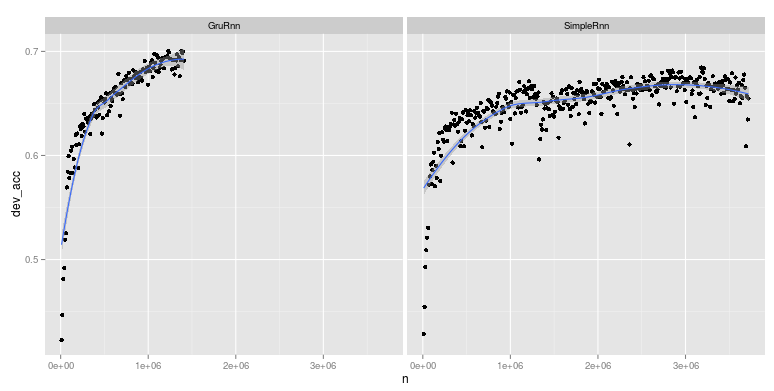
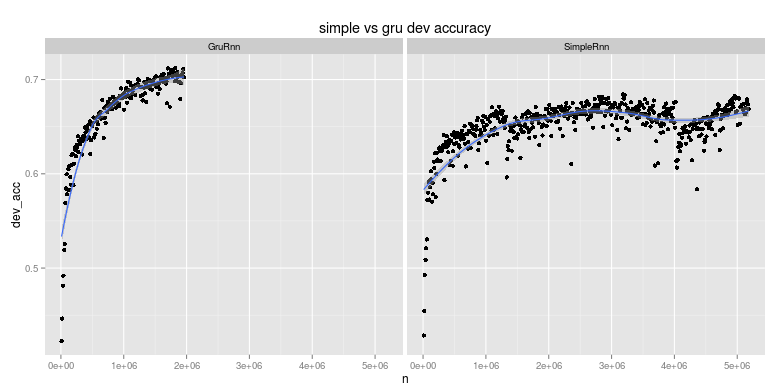
readme and arg help updates

diff --git a/nn_baseline.py b/nn_baseline.py
@@ -27,13 +27,13 @@ parser.add_argument("--dev-run-freq", default=100000, type=int, help='frequency 
 parser.add_argument("--num-epochs", default=-1, type=int, help='number of epoches to run. -1 => forever')
 parser.add_argument("--max-run-time-sec", default=-1, type=int, help='max secs to run before early stopping. -1 => dont early stop')
 parser.add_argument('--learning-rate', default=0.01, type=float, help='learning rate')
-parser.add_argument('--update-fn', default='vanilla', help='vanilla (sgd) or rmsprop')
+parser.add_argument('--update-fn', default='vanilla', help='vanilla (sgd) or rmsprop. not applied to embeddings')
 parser.add_argument('--embedding-dim', default=100, type=int, help='embedding node dimensionality')
 parser.add_argument('--hidden-dim', default=50, type=int, help='hidden node dimensionality')
 parser.add_argument('--bidirectional', action='store_true', help='whether to build bidirectional rnns for s1 & s2')
-parser.add_argument('--tied-embeddings', action='store_true', help='whether to tie embeddings for each RNN')
+parser.add_argument('--tied-embeddings', action='store_true', help='whether to tie embeddings for each rnn')
 parser.add_argument('--l2-penalty', default=0.0001, type=float, help='l2 penalty for params')
-parser.add_argument('--rnn-type', default="SimpleRnn", help='Rnn cell type {SimpleRnn,GruRnn}')
+parser.add_argument('--rnn-type', default="SimpleRnn", help='rnn cell type {SimpleRnn,GruRnn}')
 parser.add_argument('--gru-initial-bias', default=2, type=int, help='initial bias for r & z for GruRnn. higher => more like SimpleRnn')
 opts = parser.parse_args()
 print >>sys.stderr, opts

diff --git a/README.md b/README.md
@@ -10,11 +10,12 @@ model | # train | dev accuracy
 ----- | ----- | --------
 log_reg_baseline.py | 100 | 0.35
 log_reg_baseline.py | 10K | 0.56
-log_reg_baseline.py | 500K+ (all) | 0.67
+log_reg_baseline.py | 500K+ (all) | 0.667
 nn_baseline.py (elman) | 100 | 0.39
 nn_baseline.py (elman) | 10K | 0.58
-nn_baseline.py (elman) | 500K+ (all) | 0.63  UPDATE THIS
-nn_baseline.py (gru) | 500K+ (all) | 0.70 |
+nn_baseline.py (elman) | all | 0.684
+nn_baseline.py (gru) | all | 0.712
+nn_seq2seq.py (elman) | all | ???
 
 # simple logistic regression baseline
 
@@ -141,6 +142,8 @@ export COMMON="--embedding-dim=50 --hidden-dim=50 --learning-rate=0.01 --dev-run
 
 ![tied_comparison_dev_acc](imgs/tied_comparison_dev_acc.png?raw=true "tied_comparison dev accuracy")
 
+will continue with tied embeddings & bidirectional
+
 ### gru vs simple
 
 up until now everything was a simple elman network, let's try a [gru](http://arxiv.org/abs/1412.3555)
@@ -153,22 +156,32 @@ export C="--learning-rate=0.01 --dev-run-freq=10000 --bidirectional --tied-embed
 
 ![simple_vs_gru](imgs/simple_vs_gru.png?raw=true "simple vs gru dev accuracy")
 
-### TODOS
+## nn_seq2seq
+
+* bidir on s1; concatenated last states
+* bidir on s2 with added context (per timestep) directly from s1 output
+* MLP on s2 output with softmax
+
+```
+export C="--learning-rate=0.01 --dev-run-freq=10000 --embedding-dim=100 --hidden-dim=100"
+./nn_seq2seq.py $C --tied-embeddings
+./nn_seq2seq.py $C                   
+```
+
+IMAGE HERE
+
+## nn_seq2seq_attention
+
+* bidir on s1; keep all output states 
+* bidir on s2 with input attended over s1 states
+* MLP on s2 output with softmax
+
+# TODOS
 
 * neutral examples are non symmetric, should swap them 0.5 during training
 * preloading of data; it's slow to start
 * unrolling? maybe not bother for hacking. might be finally up to a point where batching speed matters...
 * unidir on s2 attending back to bidir run over s1; then just MLP on s2 output
-
-## nn_seq2seq
-
-* bidir on s1; keep start / last concatted state
-* unidir on s2 with added context (per timestep) directly from s1 output
-
-## nn_seq2seq_attention
-
-* bidir on s1; keep all states concatted
-* unidir on s2 with input attended over s1 states
 
 # appendix: vocab check
 
